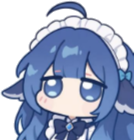
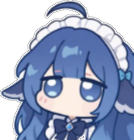
fix(ui): 全角标点画成方框；去掉压在她脸上的尾点；立绘硬切边羽化
用户三点：
① 「翻译中间的分号或者逗号变成了方框」—— 根因是字体路由：_is_cjk 不含全角
   U+FF00–FFEF（，；：（）都是），这些字被派给 Segoe UI → 缺字形 → 画成 □。
   已纳入雅黑区，并加测试钉住（，。；：！？（）【】、 必须走雅黑，ASCII 不许误判）。
② 「鲸鱼娘左上角有一个黑色的小圈圈，这些都不要」—— 是尾点（我按「指向她的嘴」
   摆在嘴的左上）压在了她脸上。两端都按要求**去掉尾点**（含掩码里那段，删晚了会 NameError）。
③ 「两边的颜色不一样」—— 探针定位：左缘轮廓亮度均值 227（自然轮廓的浅色抗锯齿边）、
   右缘 162（原图画框把人切开、切口穿过深色头发/描边，是硬切深边）。
   给剪影加 1px alpha 羽化，硬切边融进白底，两边观感一致。
   （说明：原图本身在画框右/下把她切断了，这是素材固有；若要完整立绘可另找图。）

另修：hasDefinition 定义了没导出（上一轮被打断时留下的红测试）→ 28/28 绿。

验证：npm test 28/28、桌面单测 14/14、设置面 9/9（含全角标点新用例）、结构 6/6。

diff --git a/content/card.css b/content/card.css
@@ -51,33 +51,7 @@
   padding-left: 9px;
 }
 
-/* —— 尾点：两颗白底藏青描边小圆，由气泡**指向她的嘴**（她说出来的感觉）——
-   她的嘴在立绘的 (51.4%, 70.6%) 处（tools/make-mascot.py 按肤色像素实测 68.9/134 × 98.9/140），
-   所以尾点落在她嘴的左上方、向右下递减。 */
-.et-tail {
-  position: absolute;
-  right: 42px;
-  bottom: 34px;
-  display: flex;
-  align-items: flex-end;
-  gap: 5px;
-}
-.et-dot {
-  display: block;
-  box-sizing: border-box;
-  width: 13px;
-  height: 13px;
-  border-radius: 50%;
-  background: #ffffff;
-  border: 2px solid #1e3264;
-  animation: et-dot 0.3s cubic-bezier(0.34, 1.56, 0.64, 1) 0.12s both;
-}
-.et-dot-sm {
-  width: 8px;
-  height: 8px;
-  margin-bottom: -6px;
-  animation-delay: 0.2s;
-}
+/* 尾点按用户要求**不画**（曾压在鲸鱼娘脸上，像多了一个黑色小圈圈） */
 
 /* —— 鲸鱼娘：贴在**整个对话框的右下角**（白底内，不透明，任何页面都看得清） —— */
 .et-mascot {

diff --git a/lib/normalize.js b/lib/normalize.js
@@ -175,6 +175,13 @@
     return hasContent ? out : null;
   }
 
+  /** 词条里到底有没有「可看的东西」—— 只有音标/词形、没有释义与例句时，
+   *  不该弹一个空壳（品牌词、缩写常这样）。桌面端 lookup.has_definition 与它同义。 */
+  function hasDefinition(entry) {
+    if (!entry || typeof entry !== 'object') return false;
+    return !!((entry.poses && entry.poses.length) || (entry.examples && entry.examples.length));
+  }
+
   /** 从模型自由文本里抠出第一个 JSON 对象；容忍代码围栏、尾逗号与常见畸形 */
   function extractJson(text) {
     if (!text) return null;
@@ -380,6 +387,7 @@
     splitPos: splitPos,
     humanizeMarks: humanizeMarks,
     phraseOf: phraseOf,
+    hasDefinition: hasDefinition,
     buildModelPrompt: buildModelPrompt,
     buildVisionPrompt: buildVisionPrompt
   };

diff --git a/content/hover-core.js b/content/hover-core.js
@@ -714,7 +714,7 @@
         if (!res || !res.ok) { handleFailure(res, info); return; }
         var d = res.data;
         // 只有音标、没有释义/例句（品牌词、缩写时会出现）→ 不弹空壳，给一句话说明
-        if (!d || (!(d.poses && d.poses.length) && !(d.examples && d.examples.length))) {
+        if (!ET.hasDefinition(d)) {
           showMessage('没有查到释义', '『' + word + '』在词典里没有中文释义（品牌词/缩写常这样）。', info, 'tip');
           return;
         }

diff --git a/desktop/et_desktop/ui.py b/desktop/et_desktop/ui.py
@@ -51,8 +51,11 @@ def font(size: int, bold: bool = False, cjk: bool = True) -> ImageFont.FreeTypeF
 
 
 def _is_cjk(ch: str) -> bool:
+    """该用雅黑渲染吗。注意必须含**全角标点 U+FF00–FFEF**（，；（）之类）——
+    否则这些字会被派给 Segoe UI，缺字形就画成 □（用户：分号逗号变成了方框）。"""
     o = ord(ch)
-    return 0x2E80 <= o <= 0x9FFF or 0xF900 <= o <= 0xFAFF or 0x3040 <= o <= 0x30FF or 0xAC00 <= o <= 0xD7AF
+    return (0x2E80 <= o <= 0x9FFF or 0xF900 <= o <= 0xFAFF or 0x3040 <= o <= 0x30FF
+            or 0xAC00 <= o <= 0xD7AF or 0xFF00 <= o <= 0xFFEF or 0xFE30 <= o <= 0xFE4F)
 
 
 def _runs(text: str):
@@ -231,22 +234,13 @@ def render_card(entry: dict, mascot: Image.Image, scale: float = 1.0) -> Image.I
     mx, my = W - mw - int(6 * s), by1 - int(2 * s) - mh
     canvas.paste(her, (mx, my), her)
 
-    # —— 尾点：两颗「白底 + 藏青描边」小圆，由气泡**指向她的嘴** ——
-    # 她的嘴在立绘的 (51.4%, 70.6%)（tools/make-mascot.py 按肤色像素实测 68.9/134 × 98.9/140）
-    mouth = (mx + int(mw * 0.514), my + int(mh * 0.706))
-    r1, r2 = int(6.5 * s), int(4 * s)
-    d1 = (mouth[0] - int(24 * s), mouth[1] - int(17 * s))
-    d2 = (mouth[0] - int(9 * s), mouth[1] - int(5 * s))
-    for (cx, cy), r in ((d1, r1), (d2, r2)):
-        draw.ellipse([cx - r, cy - r, cx + r, cy + r], fill=PAPER,
-                     outline=NAVY, width=max(1, int(BORDER * s)))
+    # —— 尾点按用户要求**不画**（曾压在她脸上，看起来像多了一个黑色小圈圈）——
+    pass
 
-    # —— 硬边 alpha：气泡圆角矩形 ∪ 两颗尾点 ∪ 她的轮廓 ——
+    # —— 硬边 alpha：气泡圆角矩形 ∪ 她的轮廓（尾点已按要求去掉）——
     mask = Image.new("L", (W, H), 0)
     md = ImageDraw.Draw(mask)
     md.rounded_rectangle([bx0, by0, bx1, by1], radius=int(RADIUS * s), fill=255)
-    for (cx, cy), r in ((d1, r1), (d2, r2)):
-        md.ellipse([cx - r - 1, cy - r - 1, cx + r + 1, cy + r + 1], fill=255)
     her_alpha = her.split()[3]
     mask.paste(her_alpha, (mx, my), her_alpha)
     canvas.putalpha(mask)

diff --git a/tools/make-mascot.py b/tools/make-mascot.py
@@ -105,6 +105,12 @@ def extract_character(im: Image.Image, zone=None, seed=None):
                 apx[x, y] = (r, g, b, 255)
             else:
                 apx[x, y] = (0, 0, 0, 0)
+
+    # 边缘 1px 羽化：原图在画框右/下把人切开了（切口是硬边深色），而她自然轮廓那侧
+    # 是浅色抗锯齿边 —— 两边观感会「颜色不一样」。把 alpha 羽化一层，硬切边就融进白底。
+    from PIL import ImageFilter
+    alpha = art.split()[3].filter(ImageFilter.GaussianBlur(0.6))
+    art.putalpha(alpha)
     info = {"box": box, "size": art.size, "seed": seed, "opaque": len(solid),
             "zone": zone}
     # 她的嘴部位置（肤色区中心）→ 供 UI 把对话气泡的尾巴对准她的嘴

diff --git a/desktop/tests/test_settings.py b/desktop/tests/test_settings.py
@@ -138,6 +138,14 @@ class TestSettingsWindow(unittest.TestCase):
         win.destroy()
         root.destroy()
 
+    def test_fullwidth_punctuation_goes_to_cjk_font(self):
+        """全角 ，；：（）【】 必须走雅黑 —— 派给 Segoe UI 会缺字形、画成 □（用户报的方框）。"""
+        from et_desktop import ui
+        for ch in "，。；：！？（）【】、":
+            self.assertTrue(ui._is_cjk(ch), f"{ch!r}（U+{ord(ch):04X}）应判为 CJK 字符")
+        for ch in "Aa,. ;()1":
+            self.assertFalse(ui._is_cjk(ch), f"{ch!r} 不该判为 CJK")
+
     def test_header_is_speech_bubble_with_mascot(self):
         from PIL import Image
         from et_desktop import settings_ui, ui

diff --git a/desktop/et_desktop/lookup.py b/desktop/et_desktop/lookup.py
@@ -331,6 +331,14 @@ def lookup_model(word: str, cfg: dict):
     return normalize_model(content, word)
 
 
+def has_definition(entry: dict) -> bool:
+    """有没有「可看的东西」—— 只有音标/词形、没有释义与例句时不弹空壳。
+    与 lib/normalize.js 的 hasDefinition 同义。"""
+    if not isinstance(entry, dict):
+        return False
+    return bool(entry.get("poses") or entry.get("examples"))
+
+
 def warmup_vision(cfg: dict) -> bool:
     """把视觉模型拉进内存。冷启动 1–3 分钟 —— 不预热的话，第一次在
     微信/游戏这类「辅助功能看不到文字」的界面上取词必然等很久甚至失败（用户会以为坏了）。"""

diff --git a/desktop/et_desktop/app.py b/desktop/et_desktop/app.py
@@ -146,10 +146,8 @@ class Watcher(threading.Thread):
 
     def _fire(self, word, x, y, src):
         data = lookup.lookup(word, self.cfg)
-        if not data:
-            return                       # 查不到就静默，不打扰
-        if not (data.get("poses") or data.get("examples")):
-            return                       # 只有音标没有释义 → 不弹空壳（宁可不弹）
+        if not lookup.has_definition(data):
+            return        # 查不到、或只有音标没有释义 → 静默，不弹空壳
         try:
             img = self.render(data)
             self.panel.after(0, lambda: self.panel.show_bubble(img, x, y, word))
